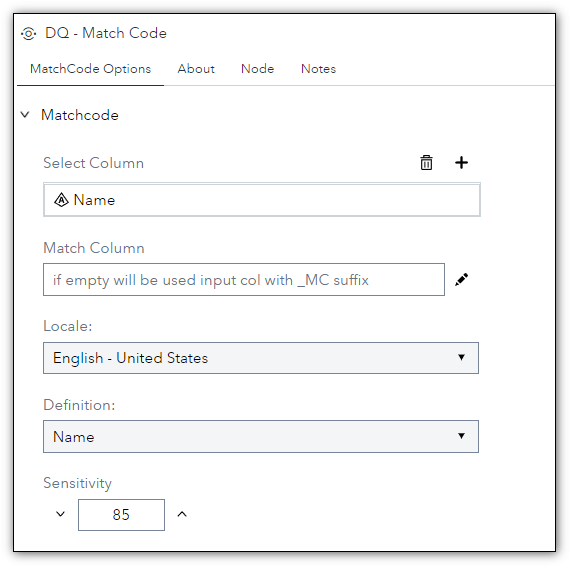
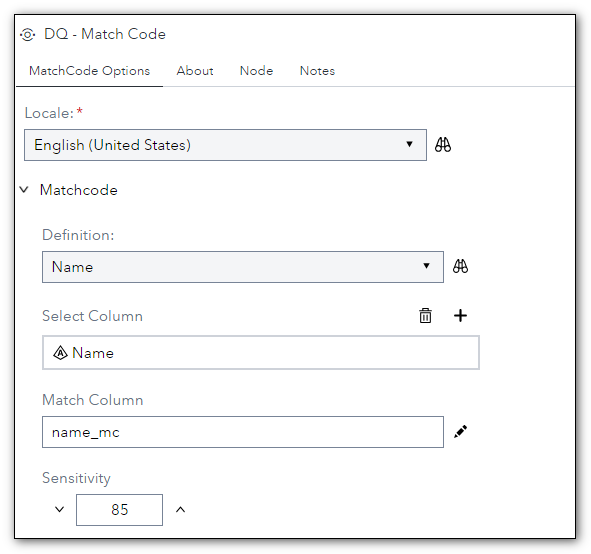
use of the SASDQREF library to extend support to all locales defined in the QKB

diff --git a/DQ - Match Code/README.md b/DQ - Match Code/README.md
@@ -2,7 +2,10 @@
 
 ## Description
 
-The **DQ - Match Code** step allows you to create a column match code based on locale and rule definition using a **dqMatch** function in the SAS Compute Server. This version supports 7 Locales (ENCAN, ENUSA, FRCAN, FRFRA, DEDEU, ITITA and ESESP) and allows to generate match code for up to 5 columns.  
+The **DQ - Match Code** step allows you to create a column match code based on locale and rule definition using a **dqMatch** function in the SAS Compute Server. 
+ * This version uses SASDQREF tables, supports all Locales defined in the QKB and allows to generate match code for up to 10 columns. 
+ * Prompts take advantage of dynamic prompt lists (SASDQREF) and hierarchies 
+
 
 ## User Interface  
 
@@ -11,18 +14,20 @@ The **DQ - Match Code** step allows you to create a column match code based on l
    | Standalone mode | Flow mode |
    | --- | --- |                  
    | ![](img/dqmatch-tabmatchcodeoptions-standalone.png) | ![](img/dqmatch-tabmatchcodeoptions-flowmode.png) |
-   
-   * This applies to MatchCode1 … MatchCode5
+  
+  
+0. **Locale**          - Define Locale to be used to compute match code.  
+
+   * This applies to MatchCode1 … MatchCode10
 
 1. **Select Column**   - Defines the column to be used to compute match code.  
 2. **Match Column**    - Specify name of output column to contain generated match code. If left empty, a new column will be created using name of input column suffixed with **_MC**.      
-3. **Locale**          - Define Locale to be used to compute match code.  
 4. **Definition**      - Define the rule to be used to compute match code.  
 5. **Sensitivity**     - Define the Sensitivity used to compute match code.  
 
 ## Requirements
 
-2021.1.1 or later  
+2023.06 or later  
 
 * This custom step requires a SAS Quality Knowledge Base (QKB) to be installed and configured. More details can be found in the documentation that is available [here](https://support.sas.com/en/software/quality-knowledge-base-support.html)  
 
@@ -31,17 +36,18 @@ The **DQ - Match Code** step allows you to create a column match code based on l
 ![Using the DQ - Match Code Custom Step](img/dqmatch.gif)  
 
 ## Change Log
-
+  
+Version 2.0 (25JUL2023)  
+ * use of the SASDQREF library to extend support to all locales defined in the QKB.
+ * use of hierarchical prompts and dynamic lists.
+    
 Version 1.2 (22NOV2022)  
-
   * Adds support for English - Canada (ENCAN) and French - Canada (FRCAN) locales
 
 Version 1.1 (22SEP2022)  
-
   * Fixes execution errors when using a locale other than English - United States (ENUSA) 
 
 Version 1.0 (14SEP2022)  
-
   * Initial version  
   
  
